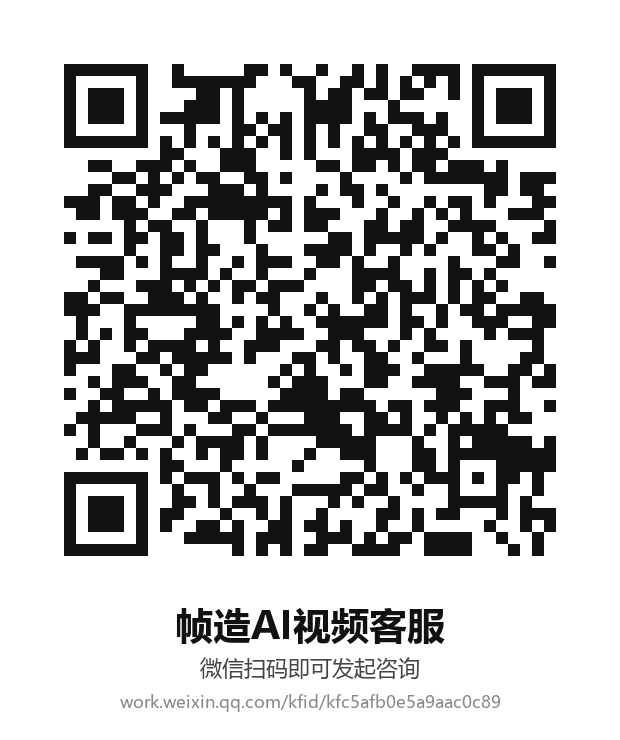
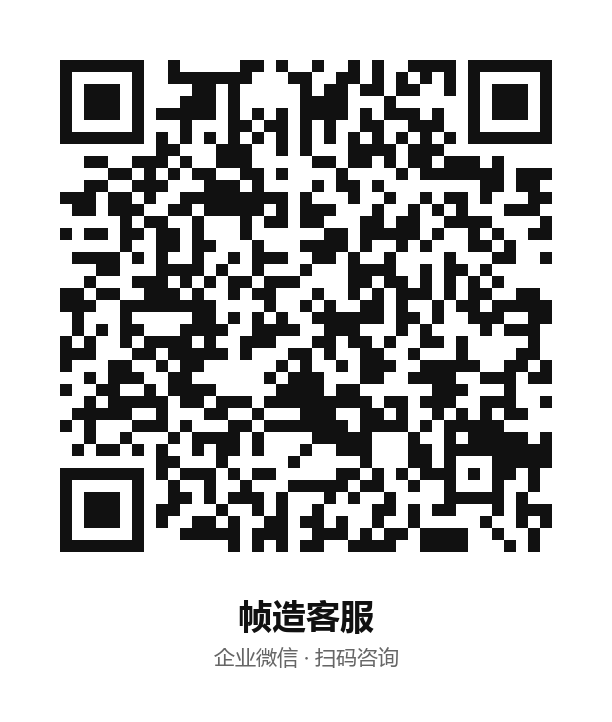
Add files via upload

diff --git a/index.html b/index.html
@@ -3,8 +3,8 @@
 <head>
 <meta charset="utf-8">
 <meta name="viewport" content="width=device-width, initial-scale=1">
-<title>帧造 FRAMEFORGE · AI 视频制作 · 600 元/分钟起</title>
-<meta name="description" content="帧造 AI 视频工作室：企业宣传片、产品片、品牌短片。600 元/分钟起，5 个工作日交付，含 3 轮修改。">
+<title>帧造 FRAMEFORGE · AI 视频制作</title>
+<meta name="description" content="帧造 AI 视频工作室：企业宣传片、产品片、品牌短片。AI 生成画面，4K 横版 / 9:16 竖版同源输出，5 个工作日交付，含 3 轮修改。">
 <style>
   :root{
     --bg:#0b0d10; --panel:#12161c; --line:#242b35;
@@ -61,13 +61,13 @@
     <div class="brand">
       <h1>帧造</h1><span>FRAMEFORGE</span>
     </div>
-    <div class="badge">起步价 <b>600 元/分钟</b> · 5 个工作日交付</div>
+    <div class="badge">AI 视频制作 · 5 个工作日交付</div>
   </header>
 
   <div class="hero">
     <h2>让每一帧，都成为品牌的门面。</h2>
     <p>企业宣传片、产品片、品牌短片，AI 生成画面，4K 横版 / 9:16 竖版同源输出。
-       本条片子即按 <b style="color:#eef2f7">600 元/分钟</b> 的标准制作，可直接对照效果。</p>
+       本条片子即按我们的标准规格制作，可直接对照效果。</p>
   </div>
 
   <div class="player">
@@ -77,19 +77,20 @@
     </video>
   </div>
   <div class="caption">
-    <span>演示片：<b>帧造出品</b> · 按 600 元/分钟标准制作</span>
+    <span>演示片：<b>帧造出品</b> · 按标准规格制作</span>
     <span>4K 拍摄级画幅 · AI 生成 · 含字幕与配乐</span>
   </div>
 
   <section>
-    <h3>价格</h3>
+    <h3>报价方式</h3>
     <div class="price">
       <div>
-        <span class="big">600</span><span class="unit"> 元 / 分钟起（人民币）</span>
+        <span class="unit" style="font-size:20px;color:#eef2f7">按时长与画面复杂度评估，一单一议</span>
       </div>
       <div class="note">
-        不满 1 分钟按 1 分钟计：30 秒 600 元、60 秒 600 元、90 秒 900 元、120 秒 1200 元。<br>
-        含 3 轮修改；更高品质（真人级质感、复杂特效、多语种配音、4K 母版）
+        报价取决于成片时长、画面复杂度（场景数量、人物镜头、特效比重）、
+        配音语种与交付规格；确认需求后给出明确报价，含 3 轮修改。<br>
+        更高品质（真人级质感、复杂特效、多语种配音、4K 母版）
         <b style="color:#eef2f7">需进一步详谈</b>。
       </div>
     </div>
@@ -130,10 +131,10 @@
     <h3>联系我们</h3>
     <div class="contact">
       <div class="qr">
-        <img src="qr.png" alt="帧造AI视频客服 企业微信二维码">
+        <img src="qr.png" alt="帧造客服 企业微信二维码">
       </div>
       <div class="txt">
-        <p><b style="color:#eef2f7">微信扫码，直接找「帧造AI视频客服」</b><br>
+        <p><b style="color:#eef2f7">微信扫码，直接找「帧造客服」</b><br>
            把需求发过来（用途 / 时长 / 参考片），当天给方案和报价。</p>
         <p>也可以点这个链接直接发起咨询：</p>
         <a class="link" href="https://work.weixin.qq.com/kfid/kfc5afb0e5a9aac0c89" target="_blank" rel="noopener">
